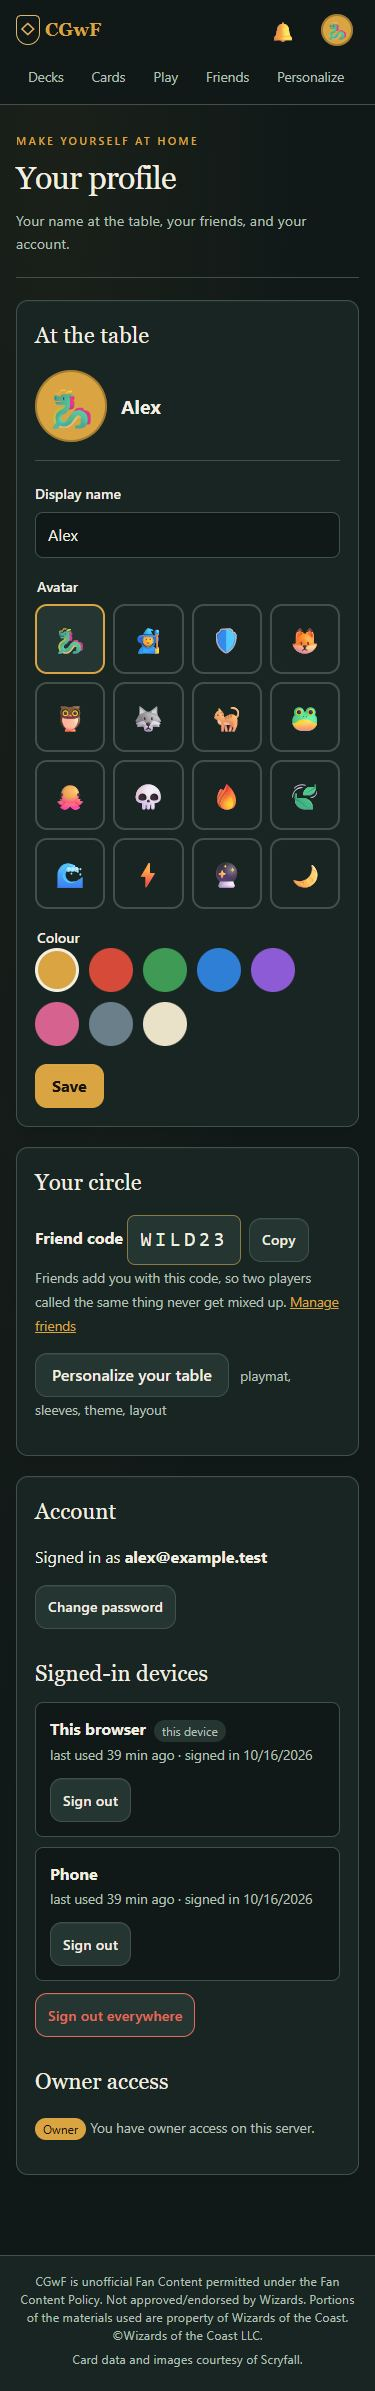
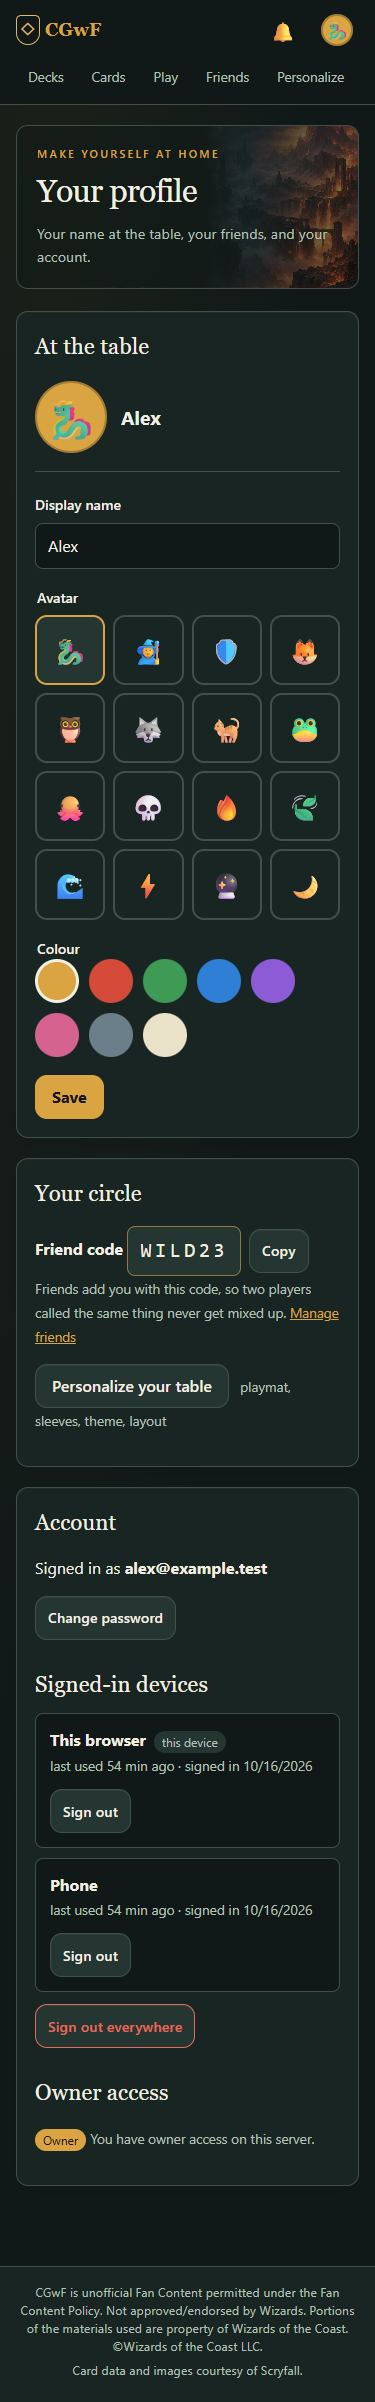
Add illustrated glass surfaces and nonblocking card movement trails

diff --git a/client/src/game/useTableMotion.ts b/client/src/game/useTableMotion.ts
@@ -1,0 +1,85 @@
+import { useLayoutEffect, useRef, type RefObject } from "react";
+import type { PlayerView, ViewCard } from "@cgwf/shared";
+import { prefersReducedMotion } from "../settings";
+
+interface Position { x: number; y: number; width: number; height: number }
+interface CardPosition { card: ViewCard; rect: Position | null; image: string | null }
+interface Snapshot { seq: number; viewer: string | null; cards: Map<string, CardPosition>; libraries: Map<string, number>; lastLogSeq: number | null }
+
+function position(element: Element | null): Position | null {
+  if (!element) return null;
+  const r = element.getBoundingClientRect();
+  if (!r.width || !r.height || r.right <= 0 || r.left >= innerWidth || r.bottom <= 0 || r.top >= innerHeight) return null;
+  return { x: r.x, y: r.y, width: r.width, height: r.height };
+}
+
+/** Decorative trails from already-authorized views. Never dispatches or delays game actions. */
+export function useTableMotion(root: RefObject<HTMLDivElement | null>, view: PlayerView, connected: boolean) {
+  const previous = useRef<Snapshot | null>(null);
+  useLayoutEffect(() => {
+    const table = root.current;
+    if (!table || !connected) { previous.current = null; return; }
+    const elements = new Map(Array.from(table.querySelectorAll<HTMLElement>("[data-card-id]"), e => [e.dataset.cardId!, e]));
+    const cards = new Map<string, CardPosition>();
+    for (const p of Object.values(view.players)) {
+      for (const card of [...p.hand.cards, ...p.library.known, ...p.graveyard, ...p.exile, ...p.command, ...Object.values(p.battlefield).flat()]) {
+        const element = elements.get(card.iid);
+        cards.set(card.iid, { card, rect: position(element ?? null), image: element?.querySelector("img")?.getAttribute("src") ?? null });
+      }
+    }
+    const now: Snapshot = { seq: view.seq, viewer: view.viewer, cards, lastLogSeq: view.log.at(-1)?.seq ?? null, libraries: new Map(Object.values(view.players).map(p => [p.id, p.library.count])) };
+    const before = previous.current;
+    previous.current = now;
+    // Initial load, undo, reconnect, background-tab catch-up and large batches stay still.
+    if (typeof table.animate !== "function" || typeof window.matchMedia !== "function" || !before || before.viewer !== now.viewer || view.phase !== "playing" || view.seq <= before.seq || view.seq - before.seq > 8 || document.hidden || prefersReducedMotion() || (before.lastLogSeq !== null && !view.log.some(entry => entry.seq === before.lastLogSeq))) return;
+    const animations: Animation[] = [];
+    const ghosts: HTMLElement[] = [];
+    const zonePosition = (owner: string, zone: string) => position(owner === view.viewer
+      ? table.querySelector(`[data-zone="${zone}"]`)
+      : Array.from(table.querySelectorAll<HTMLElement>("[data-player-id]")).find(e => e.dataset.playerId === owner) ?? null);
+    let count = 0;
+    for (const [iid, next] of cards) {
+      const old = before.cards.get(iid);
+      const fromLibrary = old?.card.zone.kind === "library" || (!old && next.card.owner === view.viewer &&
+        (before.libraries.get(next.card.owner) ?? 0) > (now.libraries.get(next.card.owner) ?? 0));
+      const drew = fromLibrary && next.card.zone.kind === "hand";
+      const arrivedFromLibrary = fromLibrary && ["hand", "graveyard", "exile"].includes(next.card.zone.kind);
+      const moved = old && (old.card.zone.kind !== next.card.zone.kind || old.card.zone.owner !== next.card.zone.owner);
+      if ((!arrivedFromLibrary && !moved) || count >= 6) continue;
+      const destination = next.card.zone.kind;
+      const from = fromLibrary ? zonePosition(next.card.owner, "library") : old?.rect ?? (old ? zonePosition(old.card.zone.owner, old.card.zone.kind) : null);
+      const to = next.rect ?? zonePosition(next.card.zone.owner, destination);
+      if (!from || !to) continue;
+      const kind = drew ? "draw" : destination === "graveyard" ? "graveyard" : destination === "exile" ? "exile" : destination === "hand" ? "return" : destination === "battlefield" ? "play" : "move";
+      const ghost = document.createElement("div");
+      ghost.className = `motion-card motion-${kind} sleeve-classic`;
+      ghost.dataset.motion = kind;
+      ghost.setAttribute("aria-hidden", "true");
+      const width = Math.min(next.rect?.width ?? old?.rect?.width ?? 48, 110);
+      const height = width * 88 / 63;
+      Object.assign(ghost.style, { left: `${from.x + (from.width - width) / 2}px`, top: `${from.y + (from.height - height) / 2}px`, width: `${width}px`, height: `${height}px` });
+      // Reuse only an image previously visible to this viewer. Draws and moves into
+      // hidden zones use a sleeve; this effect never fetches or infers a card identity.
+      if (!drew && destination !== "library" && old?.image && !old.card.faceDown && (old.card.public || old.card.owner === view.viewer)) {
+        const img = document.createElement("img"); img.src = old.image; img.alt = ""; ghost.append(img);
+      }
+      table.append(ghost); ghosts.push(ghost);
+      const dx = to.x + to.width / 2 - from.x - from.width / 2;
+      const dy = to.y + to.height / 2 - from.y - from.height / 2;
+      const animation = ghost.animate([
+        { transform: "translate(0, 0) rotate(-5deg) scale(.94)", opacity: .95 },
+        { transform: `translate(${dx * .5}px, ${dy * .5 - 28}px) rotate(${kind === "graveyard" ? -12 : 4}deg) scale(1.05)`, opacity: .95, offset: .5 },
+        { transform: `translate(${dx}px, ${dy}px) rotate(0deg) scale(${next.rect ? 1 : .65})`, opacity: 0 },
+      ], { duration: kind === "graveyard" ? 460 : 360, easing: "cubic-bezier(.22,.7,.22,1)" });
+      animations.push(animation); animation.onfinish = () => ghost.remove();
+      const target = elements.get(iid)?.querySelector(".tile-inner") ?? (view.viewer === next.card.zone.owner ? table.querySelector(`[data-zone="${destination}"]`) : null);
+      if (target) animations.push(target.animate([{ outline: "2px solid #dfb76d", outlineOffset: "2px" }, { outline: "2px solid transparent", outlineOffset: "5px" }], { duration: 500 }));
+      count++;
+    }
+    const clear = () => { animations.forEach(a => a.cancel()); ghosts.forEach(g => g.remove()); };
+    const media = window.matchMedia("(prefers-reduced-motion: reduce)");
+    const onMotion = () => { if (media.matches) clear(); };
+    media.addEventListener("change", onMotion);
+    return () => { clear(); media.removeEventListener("change", onMotion); };
+  }, [root, view, connected]);
+}

diff --git a/client/src/pages.css b/client/src/pages.css
@@ -1331,3 +1331,63 @@ input[type="checkbox"] { accent-color: var(--accent); }
   .page-intro-trailing:has(> .btn) { flex-basis: 100%; justify-content: flex-end; }
   .page-intro-trailing:not(:has(> .btn)) { display: none; }
 }
+
+/* Original environment art sits behind the glass, never over a card image. */
+:root {
+  --glass: #172722b3;
+  --glass-strong: #172722e8;
+  --glass-muted: #d0d9d1;
+  --glass-edge: #c9c6a05c;
+  --art-wash: #10201bb8;
+}
+:root[data-ui="light"] {
+  --glass: #fffdf1c7;
+  --glass-strong: #fffdf1ed;
+  --glass-muted: #4b5a51;
+  --glass-edge: #8a795b66;
+  --art-wash: #fff8e5c9;
+}
+@supports ((backdrop-filter: blur(12px)) or (-webkit-backdrop-filter: blur(12px))) {
+  .modal, .sheet, .mana-panel, .bell-panel, .triggers, .mulligan-box {
+    background: var(--glass);
+    -webkit-backdrop-filter: blur(18px) saturate(115%);
+    backdrop-filter: blur(18px) saturate(115%);
+    border-color: var(--glass-edge);
+    box-shadow: inset 0 1px 0 #ffffff20, 0 18px 60px #0005;
+  }
+  .dialog { background: var(--glass-strong); }
+  :is(.modal, .sheet, .mana-panel, .bell-panel, .triggers, .mulligan-box) .muted { color: var(--glass-muted); }
+}
+.modal-backdrop, .sheet-backdrop { background: #06100d24; }
+.game-over { background: #06100d45; }
+.deck-tile {
+  position: relative;
+  isolation: isolate;
+  overflow: hidden;
+  padding: 18px;
+  border-color: var(--glass-edge);
+  box-shadow: 0 8px 26px #0003, inset 0 1px 0 #ffffff1a;
+  --realm-position: 0%;
+}
+.deck-grid > li:nth-child(3n + 2) .deck-tile { --realm-position: 50%; }
+.deck-grid > li:nth-child(3n) .deck-tile { --realm-position: 100%; }
+.deck-tile::before, .deck-tile::after { content: ""; position: absolute; inset: -5px; pointer-events: none; }
+.deck-tile::before { z-index: -2; background: url('/art/realms.jpg') var(--realm-position) center / 300% 100%; filter: blur(3px); }
+.deck-tile::after { z-index: -1; background: linear-gradient(180deg, #10201b26, var(--art-wash) 75%); }
+.deck-tile-art { padding: 12px; border-radius: 10px; background: #111a171f; border: 1px solid #b8bdad33; }
+.deck-tile-name { font-size: 1.25rem; }
+.deck-tile .muted { color: var(--fg); opacity: .9; }
+.page-intro:not(.is-illustrated), .detail-heading { position: relative; isolation: isolate; overflow: hidden; border-radius: 12px; padding: 24px; border: 1px solid var(--border); }
+.page-intro:not(.is-illustrated)::before, .detail-heading::before { content: ""; position: absolute; inset: 0; z-index: -1; background: linear-gradient(90deg, var(--bg) 15%, var(--bg) 55%, transparent), url('/art/realms.jpg') center / cover; opacity: .5; pointer-events: none; }
+.friends-page .page-intro::before, .profile-page .page-intro::before { background-position: left; }
+.library-page .page-intro::before, .library-deck-page .detail-heading::before { background-position: right; }
+.play-options .surface, .friend-invite { position: relative; isolation: isolate; overflow: hidden; }
+.play-options .surface::before, .friend-invite::before { content: ""; position: absolute; inset: 0; z-index: -1; pointer-events: none; background: linear-gradient(90deg, var(--bg-elev) 10%, transparent), linear-gradient(var(--art-wash), var(--art-wash)), url('/art/realms.jpg') left center / 300% 100%; }
+.play-options .play-join::before { background-position: center; }
+.library-row { position: relative; isolation: isolate; overflow: hidden; }
+.library-row::before { content: ""; position: absolute; inset: 0; z-index: -1; background: linear-gradient(90deg, var(--bg-elev) 35%, transparent), linear-gradient(var(--art-wash), var(--art-wash)), url('/art/realms.jpg') right center / cover; pointer-events: none; }
+@media (max-width: 600px) {
+  .deck-tile { padding: 10px; }
+  .deck-tile-art { padding: 6px; }
+  .page-intro:not(.is-illustrated), .detail-heading { padding: 20px; }
+}

diff --git a/client/src/game/Table.tsx b/client/src/game/Table.tsx
@@ -1,3 +1,4 @@
+import { useTableMotion } from "./useTableMotion";
 import { useCallback, useEffect, useMemo, useRef, useState } from "react";
 import { useNavigate } from "react-router-dom";
 import { DndContext, MouseSensor, TouchSensor, useDroppable, useSensor, useSensors, type DragEndEvent } from "@dnd-kit/core";
@@ -42,7 +43,7 @@ interface CardsPanel {
 function DropRow({ id, className, children }: { id: string; className: string; children: React.ReactNode }) {
   const { setNodeRef, isOver } = useDroppable({ id });
   return (
-    <div ref={setNodeRef} className={`${className}${isOver ? " is-over" : ""}`}>
+    <div ref={setNodeRef} data-zone={id.replace("zone:", "")} className={`${className}${isOver ? " is-over" : ""}`}>
       {children}
     </div>
   );
@@ -51,7 +52,7 @@ function DropRow({ id, className, children }: { id: string; className: string; c
 function DropButton({ id, className, style, onClick, label, children }: { id: string; className?: string; style?: React.CSSProperties | undefined; onClick: () => void; label: string; children: React.ReactNode }) {
   const { setNodeRef, isOver } = useDroppable({ id });
   return (
-    <button ref={setNodeRef} className={`zone-btn${className ? ` ${className}` : ""}${isOver ? " is-over" : ""}`} style={style} onClick={onClick} aria-label={label}>
+    <button ref={setNodeRef} data-zone={id.replace("zone:", "")} className={`zone-btn${className ? ` ${className}` : ""}${isOver ? " is-over" : ""}`} style={style} onClick={onClick} aria-label={label}>
       {children}
     </button>
   );
@@ -64,6 +65,7 @@ function OpponentChip({ p, member, active, side, size, onClick }: { p: ViewPlaye
     <button
       className={`opp-chip is-${size}${active ? " is-active" : ""}${p.conceded ? " is-out" : ""}${member && !member.online ? " is-offline" : ""}${side ? " is-side" : ""}${member?.isAgent ? " is-agent" : ""}${member?.thinking ? " is-thinking" : ""}`}
       onClick={onClick}
+      data-player-id={p.id}
       aria-label={`${p.name}, ${p.life} life, ${p.hand.count} in hand, ${p.library.count} in library, ${field} on the battlefield${active ? ", active player" : ""}${p.conceded ? ", conceded" : ""}. Open their battlefield`}
     >
       {member && <Avatar avatar={member.avatar} color={member.color} size={size === "small" ? 22 : size === "large" ? 34 : 26} />}
@@ -87,6 +89,8 @@ function OpponentChip({ p, member, active, side, size, onClick }: { p: ViewPlaye
 }
 
 export function Table({ room, view, printings, sock }: { room: RoomInfo; view: PlayerView; printings: Printings; sock: RoomSocket }) {
+  const tableRef = useRef<HTMLDivElement>(null);
+  useTableMotion(tableRef, view, sock.status === "open");
   const navigate = useNavigate();
   const { settings } = useSettings();
   const me = view.viewer;
@@ -288,7 +292,7 @@ export function Table({ room, view, printings, sock }: { room: RoomInfo; view: P
 
   return (
     <DndContext sensors={sensors} onDragEnd={onDragEnd}>
-      <div className={tableClass} style={tableStyle}>
+      <div ref={tableRef} className={tableClass} style={tableStyle}>
         {/* ---- top: opponents + turn tracker ---- */}
         <div className="table-top">
           <div className="opp-strip">{topOpponents.map((p) => renderChip(p, false))}</div>

diff --git a/client/src/game.css b/client/src/game.css
@@ -1992,3 +1992,39 @@
   .settings-page .settings > section { padding: 18px; }
   .settings-page .swatch { width: 64px; height: 80px; }
 }
+
+/* Decorative motion overlays never participate in hit testing or layout. */
+.motion-card {
+  position: fixed;
+  z-index: 48;
+  pointer-events: none;
+  border: 1px solid #e5c17f;
+  border-radius: 5px;
+  box-shadow: 0 6px 20px #0007, 0 0 12px #dfb76d55;
+  transform-origin: center;
+  contain: layout style;
+}
+.motion-card:empty::before { content: "\25c7"; position: absolute; inset: 8%; border: 1px solid #dfb76d88; border-radius: 18% 3%; color: #e9cf92; display: grid; place-items: center; font: 28px Georgia, serif; }
+.motion-card img { display: block; width: 100%; height: 100%; object-fit: contain; border-radius: inherit; }
+.motion-graveyard { border-color: #e99362; box-shadow: 0 5px 20px #0007, -8px -10px 22px #e5793a70; }
+.motion-exile { border-color: #bfa2f2; box-shadow: 0 0 28px #ac85ed77; }
+.motion-return { border-color: #8bbddd; box-shadow: 0 0 20px #86bde55e; }
+@supports ((backdrop-filter: blur(12px)) or (-webkit-backdrop-filter: blur(12px))) {
+  .sheet-action { background: color-mix(in srgb, var(--bg-elev-2) 65%, transparent); }
+  .sheet-close, .modal-close { background: color-mix(in srgb, var(--bg-elev-2) 80%, transparent); }
+}
+.sheet-head > strong, .panel-head > strong { font: 1.4rem var(--font-display); }
+@media (prefers-reduced-motion: no-preference) {
+  .sheet, .modal, .mana-panel, .bell-panel { animation: glass-arrive 150ms ease-out; }
+  .tile.is-triggered .tile-inner { animation: trigger-breathe 1.8s ease-in-out infinite; }
+  .table.is-my-turn .table-top { animation: turn-arrive 450ms ease-out; }
+}
+@keyframes glass-arrive { from { transform: translateY(8px); } to { transform: translateY(0); } }
+@keyframes trigger-breathe { 0%, 100% { box-shadow: 0 0 0 2px #7bd36b, 0 0 7px #7bd36b55; } 50% { box-shadow: 0 0 0 2px #7bd36b, 0 0 15px #7bd36b88; } }
+@keyframes turn-arrive { from { border-bottom-color: #f5d89e; } to { border-bottom-color: var(--border); } }
+@media (prefers-reduced-motion: reduce) { .motion-card { display: none !important; } }
+
+@media (prefers-reduced-motion: no-preference) {
+  .tile { animation: card-ready 220ms ease-out; }
+}
+@keyframes card-ready { from { outline: 1px solid #dfb76d88; outline-offset: 2px; } to { outline: 1px solid transparent; outline-offset: 4px; } }

diff --git a/client/src/game/CardTile.tsx b/client/src/game/CardTile.tsx
@@ -112,6 +112,7 @@ export function CardTile({ card, printings, onTap, onHold, draggable = false, se
   return (
     <div
       ref={setNodeRef}
+      data-card-id={card.iid}
       className={`tile${card.tapped ? " is-tapped" : ""}${selected ? " is-selected" : ""}${attached ? " is-attached" : ""}${card.isToken ? " is-token" : ""}${card.isCommander ? " is-commander" : ""}${highlight ? " is-triggered" : ""}${flipping ? " is-flipping" : ""}`}
       style={style}
       {...listeners}

diff --git a/client/vite.config.ts b/client/vite.config.ts
@@ -32,7 +32,7 @@ export default defineConfig({
         // The app shell works offline; API and images are fetched live (images cache separately).
         navigateFallback: "/index.html",
         navigateFallbackDenylist: [/^\/api\//, /^\/img\//],
-        globPatterns: ["**/*.{js,css,html,svg,png,woff2}"],
+        globPatterns: ["**/*.{js,css,html,svg,png,jpg,woff2}"],
         runtimeCaching: [
           {
             urlPattern: /^\/img\//,

diff --git a/docs/DESIGN.md b/docs/DESIGN.md
@@ -193,3 +193,85 @@ interior matrix. Additional local captures are available at
 | Library editor | [Desktop](design-previews/interiors/library-deck-desktop-dark.jpg) |
 | Computer opponents | [Desktop](design-previews/interiors/agents-desktop-dark.jpg) |
 | Admin | [Desktop](design-previews/interiors/admin-desktop-dark.jpg) |
+
+
+## Illustrated glass and gameplay motion (2026-10-16)
+
+### Artwork and frosted surfaces
+
+`client/public/art/realms.jpg` is a new original environment painting made with the
+built-in ImageGen tool: woodland, moonlit observatory ruins, and an ember sanctuary.
+It is 1536×1024, JPEG quality 86, 351,986 bytes. Different portions of this image
+appear behind deck tiles, interior headers, library rows, friend invitations, and
+host/join panels. The image and glaze are separate background pseudo-elements;
+complete card faces, names, artist lines, and copyright stay sharp and unobscured.
+
+Generation prompt: "Use case: stylized-concept. Asset type: original fantasy environment
+illustration for subtle website panel backgrounds. A panoramic painterly triptych with
+three equal vertical regions seamlessly flowing into each other, no visible frame or
+text: left an emerald ancient woodland with luminous fireflies and immense mossy roots,
+center a teal moonlit ruined observatory above mist with distant spires and crystalline
+pools, right a warm ember volcanic mountain sanctuary with copper light and floating
+ash. Rich sophisticated hand-painted fantasy world concept art. Atmospheric, low visual
+clutter, no characters, no lettering, no logos, no existing franchise designs. Wide
+1536x1024 composition. These scenes will become subdued frosted backgrounds behind UI
+text; keep broad soft masses, beautiful depths and restrained luminous accents."
+
+Glass tokens: `--glass` is `#172722b3` in dark mode and `#fffdf1c7` in light mode;
+`--glass-strong` gives number/confirmation dialogs a denser fill. Dedicated
+`--glass-muted` colors keep supporting text readable. Menus, action sheets, card
+modals, mana panels, notifications, triggers, and mulligan panels use 18px backdrop
+blur and subtle warm edges. Backdrops lightly dim the table instead of blacking it
+out. Browsers without backdrop-filter keep the original opaque surface fallback.
+The artwork is compressed; `.jpg` shell art is now included in the PWA precache
+alongside the existing assets (17 entries, about 1.25 MiB total).
+
+### Motion behavior
+
+`useTableMotion.ts` is a presentation-only hook using native Web Animations. No library
+or dependency was added, and no action, event, reducer, socket, or game rule changed.
+Data attributes on existing tiles/zones provide geometry. The hook compares authorized
+per-player views after React renders the new state and draws noninteractive ghosts:
+
+- Library to hand: 360ms sleeve arc; the real card is already present and actionable.
+- Hand/command zone to battlefield: a short physical card trail and arrival outline.
+- Visible card to graveyard: 460ms departure with a restrained ember edge. This is a
+  zone-move treatment, not a rules-engine assertion that a card was destroyed; discard
+  and sacrifice use the same graveyard treatment.
+- Exile: a quiet violet edge; return to hand: a soft blue edge. Library-to-graveyard or
+  exile moves can use a sleeve trail when the source was not previously visible.
+- Existing tap/untap rotation, flips, life ticks, and trigger highlights remain. New
+  token/card arrivals use an outline instead of fading an actionable tile out. Menus
+  settle by 8px over 150ms, with no hidden or delayed actions.
+
+Trails are capped at six per update and removed on completion, the next update, or
+unmount. They have `aria-hidden` and `pointer-events: none`. Initial load, disconnected
+state, background tabs, large event jumps, and rewinds skip travel. Rewinds are detected
+from log history as well as sequence numbers, because a silent undo can increase the
+wire sequence while shortening the public log. There is no trail if native animation
+support is unavailable. The live reduced-motion media query cancels in-flight native
+animations immediately; CSS motion is also disabled.
+
+Hidden-information boundaries remain intact: drawing uses a sleeve; no hidden card
+identity is requested or inferred. A departing face may reuse only an image already
+on the current viewer's screen. Moves into libraries always use a sleeve. Opponents'
+hidden hands are never enumerated or exposed by the effect.
+
+### Verification
+
+All 193 tests, type checking, and production build pass. The 138-check interior matrix
+was repeated with no JavaScript errors or page overflow. Dynamic browser checks at
+375×812, 812×375, and 1440×1000, in both themes, exercised drawing, playing,
+graveyard/exile moves, returning to hand, immediate input availability, cleanup,
+reduced motion, switching reduced motion on mid-animation, and silent-undo suppression.
+The motion checks used synthetic synchronized views and did not write to any database.
+These remain browser-emulated checks rather than physical-phone or live multiplayer
+testing. Gameplay timing and multi-card effects are decorative and deliberately brief.
+
+Current examples are retained in `design-previews/glass/`:
+[Decks](design-previews/glass/decks-desktop-dark.jpg),
+[Phone decks](design-previews/glass/decks-portrait-dark.jpg),
+[Frosted table menu](design-previews/glass/frosted-menu-landscape-dark.jpg),
+[Light table menu](design-previews/glass/frosted-menu-landscape-light.jpg), and
+[Draw in progress](design-previews/glass/drawing-landscape-dark.jpg).
+`qa-motion.json` records the dynamic checks and computed glass styles.
